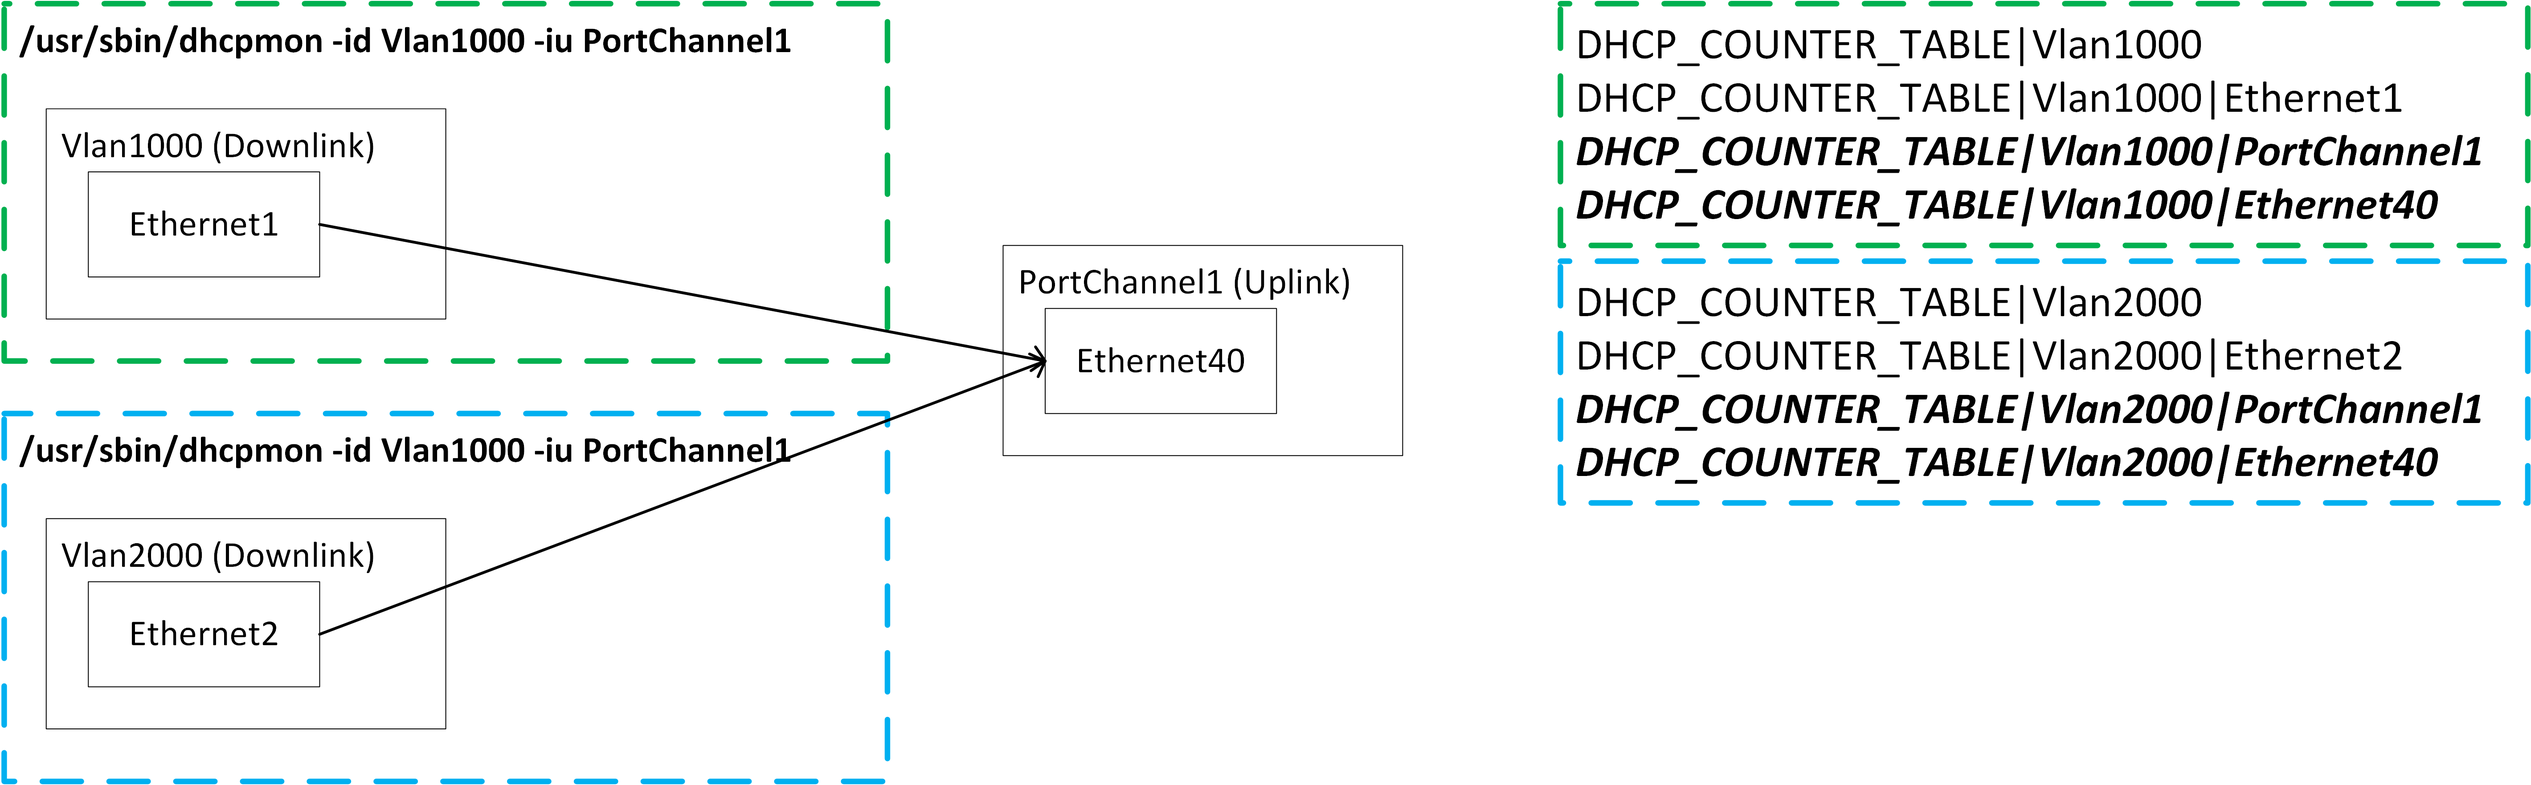
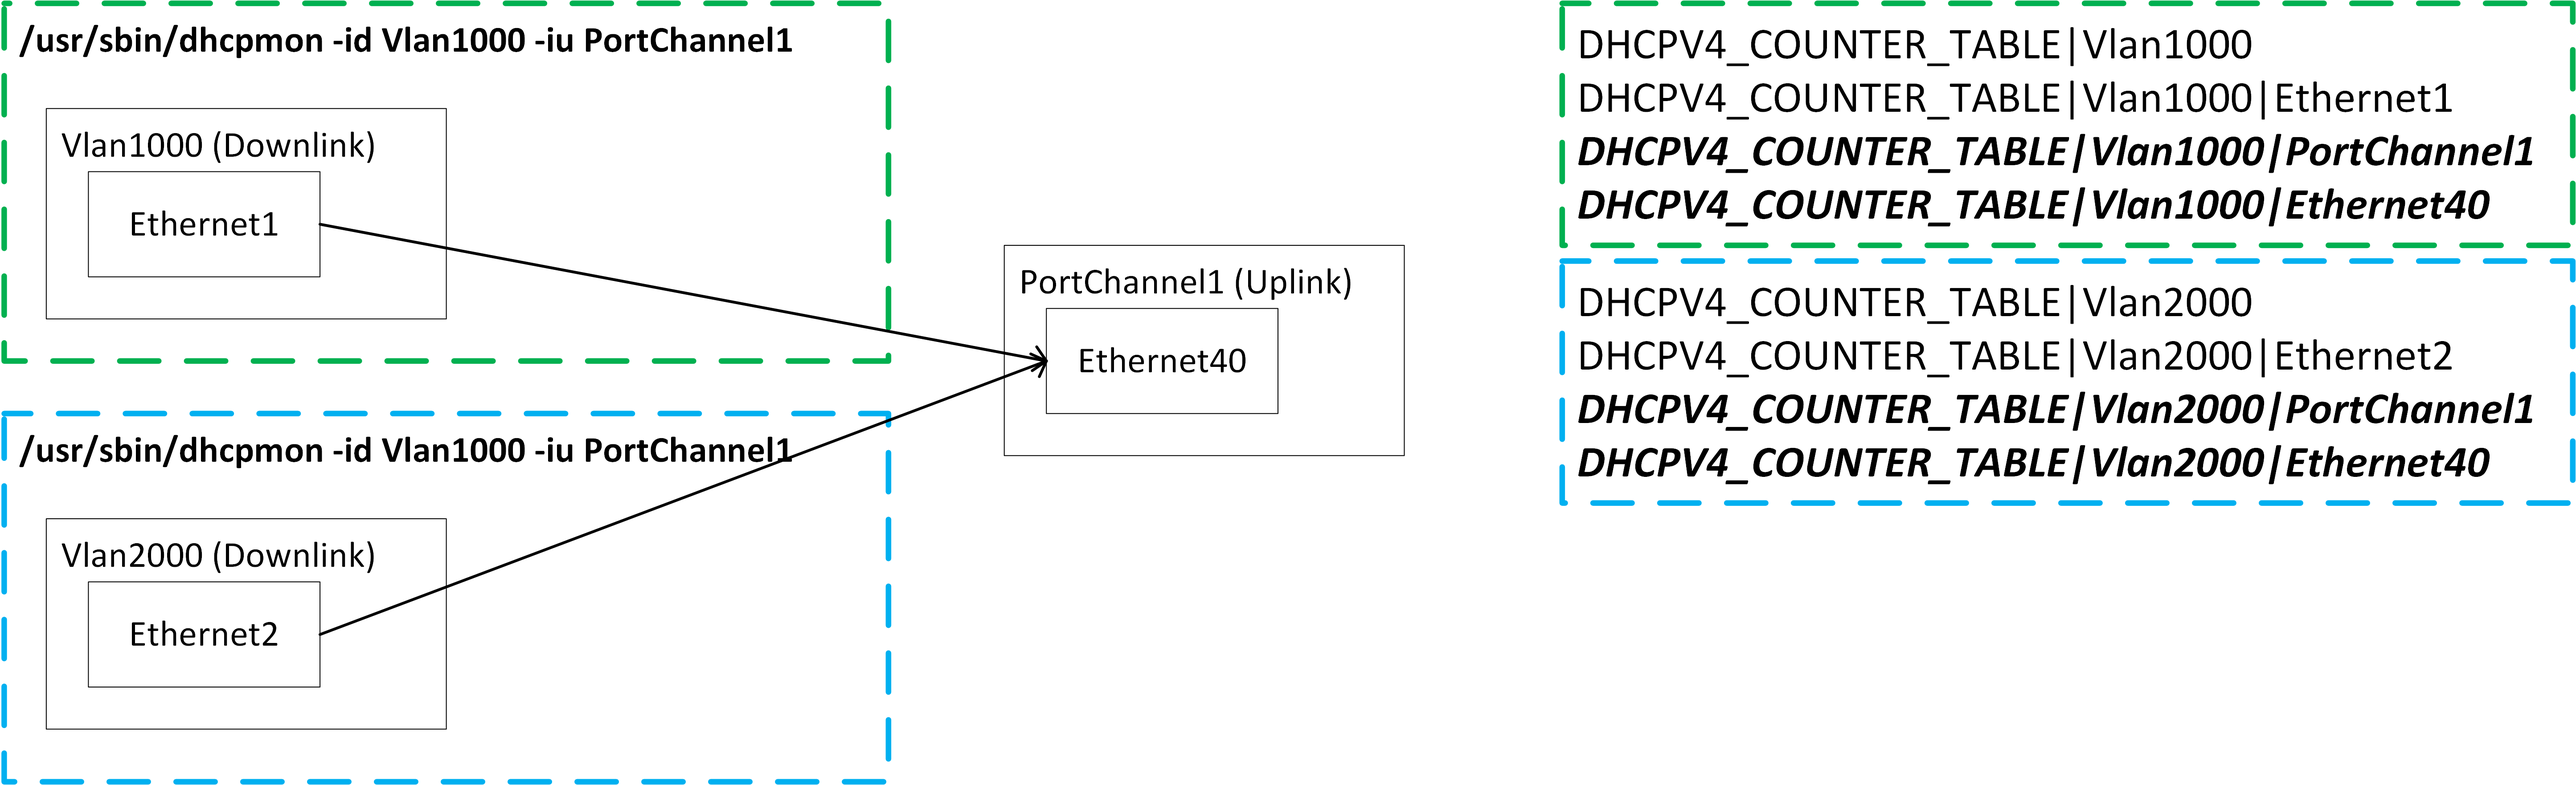
Update

diff --git a/doc/dhcp_relay/DHCPv4-per-interface-counter.md b/doc/dhcp_relay/DHCPv4-per-interface-counter.md
@@ -165,11 +165,11 @@ In Dual-ToR there are some behaviors different with single ToR:
 
 ### Counters DB
 
-Following table changes would be added in Counters DB, including **DHCP_COUNTER_TABLE** table.
+Following table changes would be added in Counters DB, including **DHCPV4_COUNTER_TABLE** table.
 
 ```
 {
-  'DHCP_COUNTER_TABLE': {
+  'DHCPV4_COUNTER_TABLE': {
     'Vlan1000': {
       'RX': '{"Ack":"0","Decline":"0","Discover":"1","Inform":"0","Nak":"0","Offer":"0","Release":"0","Request":"0","Unknown":"0"}',
       'TX': '{"Ack":"0","Decline":"0","Discover":"0","Inform":"0","Nak":"0","Offer":"0","Release":"0","Request":"0","Unknown":"0"}'
